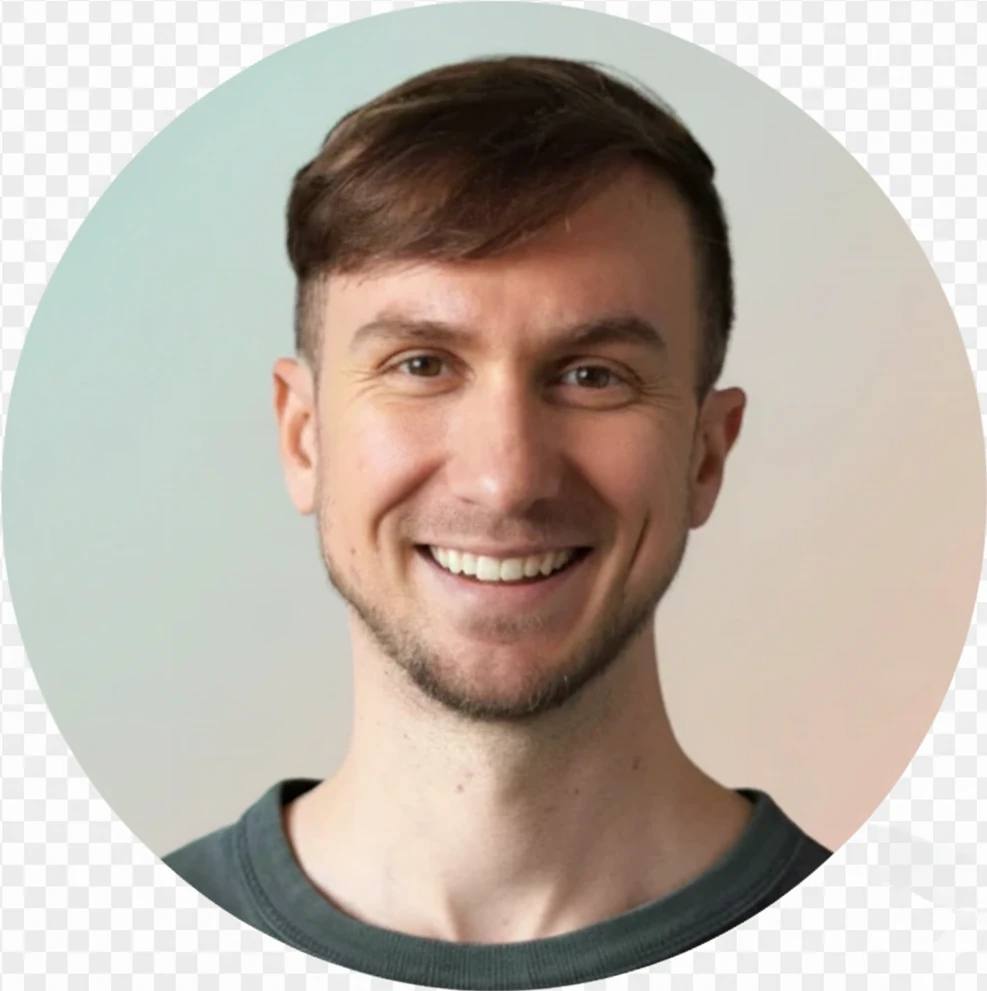
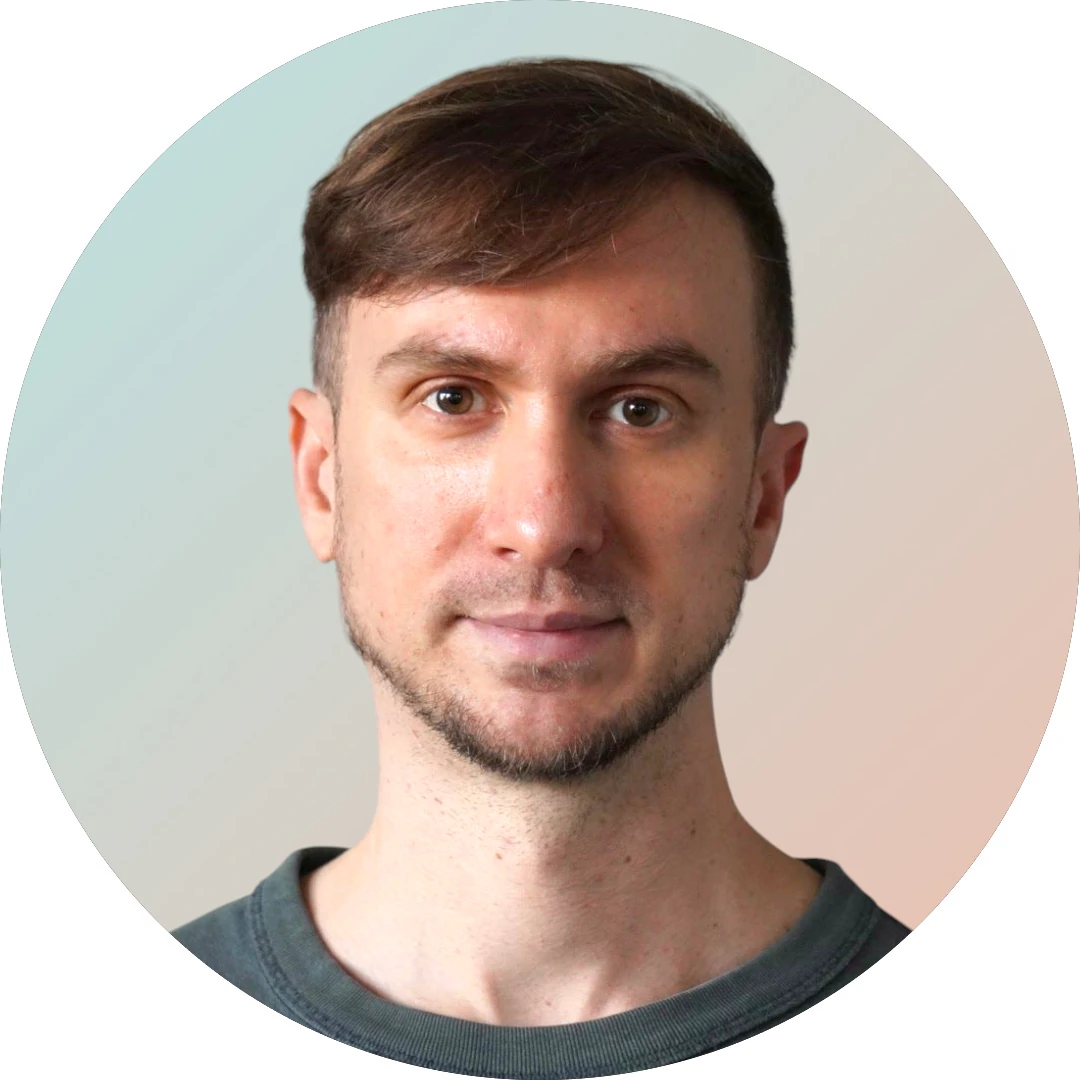
fix horizontal socials and update image profile

diff --git a/css/style.css b/css/style.css
@@ -256,6 +256,9 @@ p.tagline {
     display: flex;
     justify-content: center;
     gap: 1.5rem;
+    flex-wrap: wrap;
+    padding: 0 1rem;
+    /* Add padding to prevent edge touching on very small screens */
 }
 
 .social-btn {
